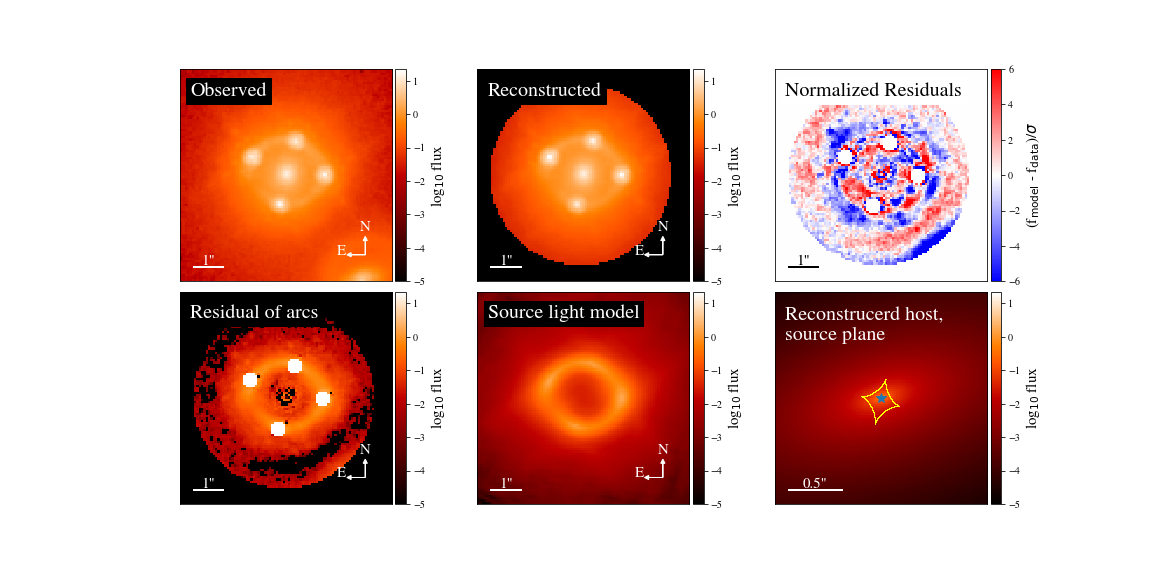
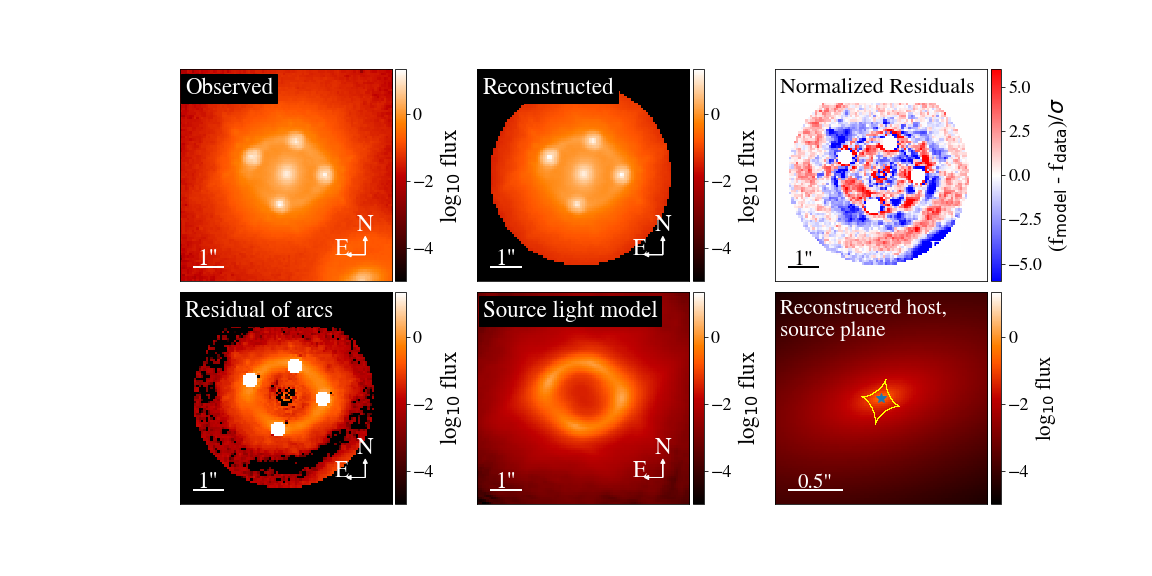
Update to make bigger font in the paper

diff --git a/manuscript/manuscript.tex b/manuscript/manuscript.tex
@@ -122,7 +122,7 @@ $^{1}$Department of Physics and Astronomy, University of California, Los Angeles
 $^{2}$Kavli Institute for Particle Astrophysics and Cosmology and Department of Physics, Stanford University, Stanford, CA 94305, USA\\
 $^{3}$European Southern Observatory, Karl-Schwarzschild-Strasse 2, 85748 Garching, Germany\\
 $^{4}$STAR Institute, Quartier Agora - All\'ee du six Ao\^ut, 19c B-4000 Li\`ege, Belgium\\
-$^{5}$Department of Physics {\bf and Astronomy}, University of California, Davis, CA 95616, USA\\
+$^{5}$Department of Physics and Astronomy, University of California, Davis, CA 95616, USA\\
 $^{6}$Institute of Astronomy, University of Cambridge, Madingley Road, Cambridge CB3 0HA, UK\\
 $^{7}$Kavli IPMU (WPI), UTIAS, The University of Tokyo, Kashiwa, Chiba 277-8583, Japan\\
 $^{8}$Max-Planck-Institut f{\"u}r Astrophysik, Karl-Schwarzschild-Str.~1, 85748 Garching, Germany\\
@@ -360,9 +360,9 @@ In addition to WFC3/F160W, HE0435 has been observed through bands ACS/F814W and 
 
 \begin{figure*}
 \centering
-\subfloat[HE0435 F555W]{\includegraphics[ width=0.8\textwidth]{fig/HE0435_f555w_inference.pdf}}\\
-\subfloat[HE0435 F814W]{\includegraphics[ width=0.8\textwidth]{fig/HE0435_f814w_inference.pdf}}\\
-\subfloat[Host galaxy stellar template inference]{\includegraphics[ width=0.5\textwidth]{fig/HE0435_host_color.pdf}}\\
+\subfloat[HE0435 F555W]{\includegraphics[trim = 15mm 0mm 15mm 5mm, clip, width=0.9\textwidth]{fig/HE0435_f555w_inference.pdf}}\\
+\subfloat[HE0435 F814W]{\includegraphics[trim = 15mm 5mm 15mm 0mm, clip, width=0.9\textwidth]{fig/HE0435_f814w_inference.pdf}}\\
+\subfloat[Host galaxy stellar template inference]{\includegraphics[trim = 10mm 0mm 20mm 15mm, clip, width=0.6\textwidth]{fig/HE0435_host_color.pdf}}\\
 \caption{\label{fig:app_HE0435} 
 Illustrations of the inference of HE0435 using the multi-band data. Top two panels: best-fit model of the lensed arcs shown as Figure~\ref{fig:image_inference}. Bottom panel: SED inference. The red points with error bars represent the inferred image plane host flux in the three bands.}
 \end{figure*} 
@@ -374,11 +374,11 @@ Illustrations of the inference of HE0435 using the multi-band data. Top two pane
 In addition to WFC3/F160W, WFI2033 has been observed by \hst\ in  four bands, i.e., WFC3/F125W (GO-12874; PI: D. Floyd), WFC3/F140W (GO-13732; PI: A. Nierenberg), ACS/F555W+F814W  (GO-9744; PI: C. S. Kochanek). Similar to HE0435, the lens modelling and the host photometry of WFI2033 have been inferred through these four bands. The results are presented in Figure~\ref{fig:app_WFI2033}-(a)$-$(d). Unfortunately, the  F125W data are too shallow to robustly detect the host.  Thus, we do not use the F125W band for the SED fitting. Using four-band photometry, we find a stellar population of 0.625 Gyr age provides a good match to the colors, as shown in Figure~\ref{fig:app_WFI2033}-(e).
 \begin{figure*}
 \centering
-\subfloat[WFI2033 F125W]{\includegraphics[ width=0.8\textwidth]{fig/WFI2033_f125w_inference.pdf}}\\
-\subfloat[WFI2033 F140W]{\includegraphics[ width=0.8\textwidth]{fig/WFI2033_f140w_inference.pdf}}\\
-\subfloat[WFI2033 F555W]{\includegraphics[ width=0.8\textwidth]{fig/WFI2033_f555w_inference.pdf}}\\
-\subfloat[WFI2033 F814W]{\includegraphics[ width=0.8\textwidth]{fig/WFI2033_f814w_inference.pdf}}\\
-\subfloat[Host galaxy stellar template inference]{\includegraphics[ width=0.5\textwidth]{fig/WFI2033_host_color.pdf}}
+\subfloat[WFI2033 F125W]{\includegraphics[trim = 75mm 12mm 45mm 12mm, clip, width=0.9\textwidth]{fig/WFI2033_f125w_inference.pdf}}\\
+\subfloat[WFI2033 F140W]{\includegraphics[trim = 75mm 12mm 45mm 12mm, clip, width=0.9\textwidth]{fig/WFI2033_f140w_inference.pdf}}\\
+\subfloat[WFI2033 F555W]{\includegraphics[trim = 75mm 12mm 45mm 12mm, clip, width=0.9\textwidth]{fig/WFI2033_f555w_inference.pdf}}\\
+\subfloat[WFI2033 F814W]{\includegraphics[trim = 75mm 12mm 45mm 12mm, clip, width=0.9\textwidth]{fig/WFI2033_f814w_inference.pdf}}\\
+\subfloat[Host galaxy stellar template inference]{\includegraphics[trim = 10mm 0mm 20mm 15mm, clip, width=0.6\textwidth]{fig/WFI2033_host_color.pdf}}
 \caption{\label{fig:app_WFI2033} 
 Same as Figure~\ref{fig:app_WFI2033} but for WFI2033. The F125W dare are too shallow to detect the host and are thus omitted in the fit.}
 \end{figure*} 
@@ -401,9 +401,7 @@ with  $\alpha = 0.27$, $\beta = 0.98$ based on the local sample of 55 objects me
 \label{eq:offset}
 \Delta \log \mathcal M_{\rm BH}= \gamma \log (1 + z),
 \end{eqnarray} 
-where $\Delta \log \mathcal M_{\rm BH}$ is the offset of \mbh\ with respect to the local baseline at fixed \mstar. To make a direct comparison, we reproduce the plot shown in Figure~8 of D20. Then, we add our new lensed AGN measurements and show the result in Figure~\ref{fig:scaling_relation}-(right). We find that the offset from the local relationship is similar for the two samples. Based on Equation~\eqref{eq:offset}, we fit the evolution of the eight lensed systems and obtain $\gamma=1.05\pm0.44$, which agrees with the results of D20 ($\gamma=1.03\pm0.25$ using 32 AGN) within $1-\sigma$ level. The consistency between the two measurements provides an important verification of the accuracy of the results and strengthens the conclusions drawn by D20 that the {\it observed} value of \mbh\ at a fixed \mstar\ tends to be larger at higher redshift than the ones in the local universe. {\bf %It is possible that the uncertainty of the \mstar\ could be higher than our estimation (i.e., 0.2~dex), given that the star formation histories could vary widely at high redshift ($z\sim$2). However, even when our stellar mass uncertainty is boosted, the evolution inferred using the eight lensed systems is still robust --- $\gamma=1.05\pm0.48$ assuming  $\Delta$\mstar = 0.3~dex, and $\gamma=1.03\pm0.53$ assuming $\Delta$\mstar = 0.4~dex.
-It is possible that the uncertainty of the \mstar\ could be higher than our assumed 0.2 dex, given that the star formation histories could vary widely at high redshift ($z\sim$2). However, increasing the uncertainty on the stellar mass does not change significantly our conclusions, since the error budget is dominated by the uncertainty in black hole mass. For example, increasing the stellar mass uncertainty to $0.3$ ($0.4$)~dex, we find $\gamma = 1.05\pm0.48$ $(1.03\pm0.53)$.
-}
+where $\Delta \log \mathcal M_{\rm BH}$ is the offset of \mbh\ with respect to the local baseline at fixed \mstar. To make a direct comparison, we reproduce the plot shown in Figure~8 of D20. Then, we add our new lensed AGN measurements and show the result in Figure~\ref{fig:scaling_relation}-(right). We find that the offset from the local relationship is similar for the two samples. Based on Equation~\eqref{eq:offset}, we fit the evolution of the eight lensed systems and obtain $\gamma=1.05\pm0.44$, which agrees with the results of D20 ($\gamma=1.03\pm0.25$ using 32 AGN) within $1-\sigma$ level. The consistency between the two measurements provides an important verification of the accuracy of the results and strengthens the conclusions drawn by D20 that the {\it observed} value of \mbh\ at a fixed \mstar\ tends to be larger at higher redshift than the ones in the local universe. It is possible that the uncertainty of the \mstar\ could be higher than our assumed 0.2 dex, given that the star formation histories could vary widely at high redshift ($z\sim$2). However, increasing the uncertainty on the stellar mass does not change significantly our conclusions, since the error budget is dominated by the uncertainty in black hole mass. For example, increasing the stellar mass uncertainty to $0.3$ ($0.4$)~dex, we find $\gamma = 1.05\pm0.48$ $(1.03\pm0.53)$.
 
 
 Note that this apparent evolution is obtained directly using the observed sample, before considering selection effects~\citep{Tre++07,Schulze2011,Bennert++2011, Schulze2014,Park15}. For instance, adopting the framework introduced in~\citet{Schulze2015}, D20 estimated that accounting for selection biases would yield a more modest evolution $\gamma=0.50\pm0.25$. The lensed AGN systems considered in this work were selected for time-delay cosmography, based on the availability of a time delay and the known detectability of the host galaxy. This is a complex selection function, different than the one used by D20. Although it is encouraging that the two samples present the same apparent evolution, inferring the true underlying evolution requires modelling the selection function, as studied by D20. A full modelling of the complex selection function is not warranted given the small size of the lensed quasars sample. Thus, at this stage, the lensed quasars should be considered as a check on possible systematic measurement error in the D20 analysis rather than a stand-alone measurement.
@@ -440,7 +438,7 @@ The authors thank the anonymous referee for helpful suggestions and comments whi
 We are grateful to Frederic Courbin, Leon Koopmans for useful comments
 and suggestions that improved this manuscript. We thank John Silverman and Vardha Bennert for many conversations on the topic of galaxy and black hole co-evolution.
 
-This work is based in part on observations made with the NASA/ESA Hubble Space Telescope, obtained at the Space Telescope Science Institute, which is operated by the Association of Universities for Research in Astronomy, Inc., under NASA contract NAS 5-26555. X.D., S.B., and T.T. acknowledge support by the Packard Foundation through a Packard Research fellowship to T.T. {\bf This project is received support by the NSF through grant 1907208.} This work is supported by JSPS KAKENHI Grant Number JP18H01251 and the World Premier International Research Center Initiative (WPI), MEXT, Japan. This project has received funding from the European Research Council (ERC) under the European Union's Horizon 2020 research and innovation programme (grant agreement No 787886).
+This work is based in part on observations made with the NASA/ESA Hubble Space Telescope, obtained at the Space Telescope Science Institute, which is operated by the Association of Universities for Research in Astronomy, Inc., under NASA contract NAS 5-26555. X.D., S.B., and T.T. acknowledge support by the Packard Foundation through a Packard Research fellowship to T.T. This project is received support by the NSF through grant 1907208. This work is supported by JSPS KAKENHI Grant Number JP18H01251 and the World Premier International Research Center Initiative (WPI), MEXT, Japan. This project has received funding from the European Research Council (ERC) under the European Union's Horizon 2020 research and innovation programme (grant agreement No 787886).
 C.D.F. acknowledge support for this work from the National Science Foundation under Grant Numbers AST-1312329 and AST-1907396.
 SHS thanks the Max Planck Society for support through the Max Planck Research Group.
 
@@ -525,14 +523,14 @@ HE0047 is the most challenging system in our sample with the lowest SNR of the l
 \begin{figure*}
 \centering
 \begin{tabular}{c c}
-\subfloat[HE0435]{\includegraphics[trim = 40mm 25mm 40mm 25mm, clip, width=0.5\textwidth]{fig/HE0435_inference.png}}&
-\subfloat[RXJ1131]{\includegraphics[trim = 40mm 25mm 40mm 25mm, clip, width=0.5\textwidth]{fig/RXJ1131_inference.png}}\\
-\subfloat[WFI2033]{\includegraphics[trim = 40mm 25mm 40mm 25mm, clip, width=0.5\textwidth]{fig/WFI2033_inference.png}}&
-\subfloat[SDSS1206]{\includegraphics[trim = 40mm 25mm 40mm 25mm, clip, width=0.5\textwidth]{fig/SDSS1206_inference.png}}\\
-\subfloat[HE1104]{\includegraphics[trim = 40mm 25mm 40mm 25mm, clip, width=0.5\textwidth]{fig/HE1104_inference.png}}&
-\subfloat[SDSS0246]{\includegraphics[trim = 40mm 25mm 40mm 25mm, clip, width=0.5\textwidth]{fig/SDSS0246_inference.png}}\\
-\subfloat[HS2209]{\includegraphics[trim = 40mm 25mm 40mm 25mm, clip, width=0.5\textwidth]{fig/HS2209_inference.png}}&
-\subfloat[HE0047]{\includegraphics[trim = 40mm 25mm 40mm 25mm, clip, width=0.5\textwidth]{fig/HE0047_inference.png}}\\
+\subfloat[HE0435]{\includegraphics[trim = 60mm 25mm 20mm 25mm, clip, width=0.5\textwidth]{fig/HE0435_inference.png}}&
+\subfloat[RXJ1131]{\includegraphics[trim = 60mm 25mm 20mm 25mm, clip, width=0.5\textwidth]{fig/RXJ1131_inference.png}}\\
+\subfloat[WFI2033]{\includegraphics[trim = 60mm 25mm 20mm 25mm, clip, width=0.5\textwidth]{fig/WFI2033_inference.png}}&
+\subfloat[SDSS1206]{\includegraphics[trim = 60mm 25mm 20mm 25mm, clip, width=0.5\textwidth]{fig/SDSS1206_inference.png}}\\
+\subfloat[HE1104]{\includegraphics[trim = 60mm 25mm 20mm 25mm, clip, width=0.5\textwidth]{fig/HE1104_inference.png}}&
+\subfloat[SDSS0246]{\includegraphics[trim = 60mm 25mm 20mm 25mm, clip, width=0.5\textwidth]{fig/SDSS0246_inference.png}}\\
+\subfloat[HS2209]{\includegraphics[trim = 60mm 25mm 20mm 25mm, clip, width=0.5\textwidth]{fig/HS2209_inference.png}}&
+\subfloat[HE0047]{\includegraphics[trim = 60mm 25mm 20mm 25mm, clip, width=0.5\textwidth]{fig/HE0047_inference.png}}\\
 \end{tabular}
 \caption{\label{fig:image_inference} 
 Illustrations of the inference using the best-fit lens model for each system using the AGN center noise level boosted approach. For each figure, the panels from left to right are the follows: Top row: (left to right): (1) observed data, (2) best-fit model (3) residuals divided by the uncertainty level. Some of the residual looks clumpy; however, they do not affect the host property measurements, for more details see Section~\ref{sec:diss} ; Bottom row: (left to right): (4) data minus the model PSF and deflector  (i.e., pure lensed arc image), (5) the model of the lensed arc, (6) reconstructed host galaxy in the source plane with caustic line drawn as yellow line. Across all the systems, the lensed arc feature can be clearly seen in the fourth panel, indicating strong evidence of a detection. In panel (3) and (4), we use white regions to indicate the area where the noise level is boosted. 

diff --git a/material/model_band_plot(Xuheng_mod).py b/material/model_band_plot(Xuheng_mod).py
@@ -100,6 +100,7 @@ class ModelBandPlot(object):
         cax = divider.append_axes("right", size="5%", pad=0.05)
         cb = plt.colorbar(im, cax=cax, orientation='vertical')
         cb.set_label(colorbar_label, fontsize=font_size)
+        cb.ax.tick_params(labelsize=18)
         return ax
 
     def model_plot(self, ax, v_min=None, v_max=None, image_names=False,
@@ -133,7 +134,7 @@ class ModelBandPlot(object):
         cax = divider.append_axes("right", size="5%", pad=0.05)
         cb = plt.colorbar(im, cax=cax)
         cb.set_label(colorbar_label, fontsize=font_size)
-
+        cb.ax.tick_params(labelsize=18)
         #plot_line_set(ax, self._coords, self._ra_caustic_list, self._dec_caustic_list, color='b')
         #plot_line_set(ax, self._coords, self._ra_crit_list, self._dec_crit_list, color='r')
         if image_names is True:
@@ -206,6 +207,7 @@ class ModelBandPlot(object):
         cb = plt.colorbar(im, cax=cax)
         cb.set_label(colorbar_label,
                      fontsize=font_size)
+        cb.ax.tick_params(labelsize=18)
         return ax
 
     def absolute_residual_plot(self, ax, v_min=-1, v_max=1, font_size=15,
@@ -315,7 +317,7 @@ class ModelBandPlot(object):
         cax = divider.append_axes("right", size="5%", pad=0.05)
         cb = plt.colorbar(im, cax=cax)
         cb.set_label(colorbar_label, fontsize=font_size)
-
+        cb.ax.tick_params(labelsize=18)
         if with_caustics is True:
             ra_caustic_list, dec_caustic_list = self._caustics()
             plot_util.plot_line_set(ax, coords_source, ra_caustic_list,
@@ -327,7 +329,7 @@ class ModelBandPlot(object):
         if 'no_arrow' not in kwargs or not kwargs['no_arrow']:
             plot_util.coordinate_arrows(ax, self._frame_size, self._coords, color='w',
                               arrow_size=self._arrow_size, font_size=font_size)
-            plot_util.text_description_2(ax, d_s, text=text, color="w", backgroundcolor='k',
+            plot_util.text_description_2(ax, d_s, text=text, color="w",
                          flipped=False, font_size=font_size)
         if point_source_position is True:
             ra_source, dec_source = self.bandmodel.PointSource.source_position(self._kwargs_ps_partial, self._kwargs_lens_partial)
@@ -479,13 +481,14 @@ class ModelBandPlot(object):
         ax.get_yaxis().set_visible(False)
         ax.autoscale(False)
         plot_util.scale_bar(ax, self._frame_size, dist=1, text='1"', font_size=font_size)
-        plot_util.text_description(ax, self._frame_size, text=text, color="w", backgroundcolor='k')
+        plot_util.text_description(ax, self._frame_size, text=text, color="w", backgroundcolor='k', font_size=font_size)
         plot_util.coordinate_arrows(ax, self._frame_size, self._coords,
                           arrow_size=self._arrow_size, font_size=font_size)
         divider = make_axes_locatable(ax)
         cax = divider.append_axes("right", size="5%", pad=0.05)
         cb = plt.colorbar(im, cax=cax)
         cb.set_label(r'log$_{10}$ flux', fontsize=font_size)
+        cb.ax.tick_params(labelsize=18)
         return ax
 
     def subtract_from_data_plot(self, ax, text='Subtracted', v_min=None,
@@ -519,6 +522,7 @@ class ModelBandPlot(object):
         cax = divider.append_axes("right", size="5%", pad=0.05)
         cb = plt.colorbar(im, cax=cax)
         cb.set_label(r'log$_{10}$ flux', fontsize=font_size)
+        cb.ax.tick_params(labelsize=18)
         return ax
 
     def plot_main(self, with_caustics=False):

diff --git a/material/plot_append_WFI2033.py b/material/plot_append_WFI2033.py
@@ -27,7 +27,7 @@ IDs = ['2_WFI2033']
 #0 = int(0ut("Which source:\n"))
 ID = IDs[0][2:]
 filters = ['f125w', 'f140w', 'f555w', 'f814w'] 
-file_info = '/{0}_model/fit_PSFi_PSFrecons/result_PSF0_*_gammafix1.9*.pkl'.format(filters[1])
+file_info = '/{0}_model/fit_PSFi_PSFrecons/result_PSF0_*_gammafix1.9*.pkl'.format(filters[0])
 #
 filename = glob.glob('../'+IDs[0]+file_info )
 #filename = glob.glob('../5_SDSS0246/model/2nd_fit_PSFi_PSFrecons/result_PSF0_*_gammafix2.1_subg2.pkl')
@@ -94,17 +94,17 @@ modelPlot = ModelPlot(multi_band_list, kwargs_model, kwargs_result,
                       arrow_size=0.02, cmap_string="gist_heat", likelihood_mask_list=[lens_mask])
 
 f, axes = plt.subplots(1, 4, figsize=(21, 4), sharex=False, sharey=False)
-if filters[0] == 'f125w':
-    no_arrow=True
+if (readfile.split('_model')[0])[-5:] == 'f125w' or (readfile.split('_model')[0])[-5:] == 'f140w':
+    modelPlot.data_plot(ax=axes[0], no_arrow=True, font_size=23)
+    modelPlot.model_plot(ax=axes[1], no_arrow=True, font_size=23)
 else:
-    no_arror = False
-modelPlot.data_plot(ax=axes[0], no_arrow=no_arrow)
-modelPlot.model_plot(ax=axes[1], no_arrow=no_arrow)
-#modelPlot.normalized_residual_plot(ax=axes[0,2], v_min=-6, v_max=6)
+    modelPlot.data_plot(ax=axes[0], font_size=23)
+    modelPlot.model_plot(ax=axes[1], font_size=23)
+    #modelPlot.normalized_residual_plot(ax=axes[0,2], v_min=-6, v_max=6)
 #Multe the arrow in: /Users/Dartoon/Astro/Packages/lenstronomy/lenstronomy/Plots/model_band_plot.py
 modelPlot.subtract_from_data_plot(ax=axes[2], point_source_add=True,lens_light_add=True, source_add=False, 
-                                  text='Residual of lensed arcs')#, no_arrow=no_arrow)
-modelPlot.decomposition_plot(ax=axes[3], text='Modelled source light', source_add=True)#, no_arrow=no_arrow)
+                                  text='Residual of lensed arcs', font_size=22)#, no_arrow=no_arrow)
+modelPlot.decomposition_plot(ax=axes[3], text='Modelled source light', source_add=True, font_size=22)#, no_arrow=no_arrow)
 #f.tight_layout()
 f.subplots_adjust(left=None, bottom=None, right=None, top=None, wspace=0., hspace=0.05)
 #

diff --git a/material/plot_fitting.py b/material/plot_fitting.py
@@ -36,7 +36,7 @@ IDs = ['0_HE0435', '1_RXJ1131', '2_WFI2033', '3_SDSS1206', '4_HE1104', '5_SDSS02
 #for i in range(len(IDs)):
 #    print(i, ':', IDs[i])
 #inp = int(input("Which source:\n"))
-inp = 6
+inp = 7
 ID = IDs[inp][2:]
 if ID == 'SDSS1206':
     folder_0 = '_singel_host_run_summary.pkl'
@@ -119,18 +119,18 @@ modelPlot = ModelPlot(multi_band_list, kwargs_model, kwargs_result,
                       arrow_size=0.02, cmap_string="gist_heat", likelihood_mask_list=[lens_mask])
 
 f, axes = plt.subplots(2, 3, figsize=(16, 8), sharex=False, sharey=False)
-modelPlot.data_plot(ax=axes[0,0])
-modelPlot.model_plot(ax=axes[0,1])
-modelPlot.normalized_residual_plot(ax=axes[0,2], v_min=-6, v_max=6)
+modelPlot.data_plot(ax=axes[0,0], font_size=23)
+modelPlot.model_plot(ax=axes[0,1], font_size=23)
+modelPlot.normalized_residual_plot(ax=axes[0,2], v_min=-6, v_max=6, font_size=22)
 modelPlot.subtract_from_data_plot(ax=axes[1, 0], #v_max=1, 
                                   point_source_add=True,lens_light_add=True, source_add=False, 
-                                  text='Residual of arcs')
-modelPlot.decomposition_plot(ax=axes[1,1], text='Source light model', source_add=True)
+                                  text='Residual of arcs', font_size=23)
+modelPlot.decomposition_plot(ax=axes[1,1], text='Source light model', source_add=True, font_size=23)
 #modelPlot.decomposition_plot(ax=axes[1,2], text='Source light', source_add=True, unconvolved=True)
 #modelPlot.magnification_plot(ax=axes[1, 2])
 delta_list = [0.02, 0.1, 0.02, 0.05, 0.06, 0.02, 0.02, 0.02, 0.02]
 modelPlot.source_plot(ax=axes[1, 2], deltaPix_source=delta_list[inp], numPix=100, scale_size=0.5,
-                      text='Reconstrucerd host, \nsource plane',with_caustics=True)
+                      text='Reconstrucerd host, \nsource plane',with_caustics=True, font_size=21)
 #f.tight_layout()
 f.subplots_adjust(left=None, bottom=None, right=None, top=None, wspace=0., hspace=0.05)
 plt.savefig('{0}_inference.png'.format(ID))

diff --git a/material/plot_append_HE0435.py b/material/plot_append_HE0435.py
@@ -95,13 +95,13 @@ modelPlot = ModelPlot(multi_band_list, kwargs_model, kwargs_result,
                       arrow_size=0.02, cmap_string="gist_heat", likelihood_mask_list=[lens_mask])
 
 f, axes = plt.subplots(1, 4, figsize=(21, 4), sharex=False, sharey=False)
-modelPlot.data_plot(ax=axes[0])
-modelPlot.model_plot(ax=axes[1])
+modelPlot.data_plot(ax=axes[0], font_size=23)
+modelPlot.model_plot(ax=axes[1], font_size=23)
 #modelPlot.normalized_residual_plot(ax=axes[0,2], v_min=-6, v_max=6)
 modelPlot.subtract_from_data_plot(ax=axes[2], point_source_add=True,lens_light_add=True, source_add=False, 
-                                  text='Residual of lensed arcs')
-modelPlot.decomposition_plot(ax=axes[3], text='Modelled source light', source_add=True)
-#f.tight_layout()
+                                  text='Residual of lensed arcs', font_size=22)
+modelPlot.decomposition_plot(ax=axes[3], text='Modelled source light', source_add=True, font_size=22)
+f.tight_layout()
 f.subplots_adjust(left=None, bottom=None, right=None, top=None, wspace=0., hspace=0.05)
 #
 plt.savefig('{0}_{1}_inference.pdf'.format(ID, (readfile.split('_model')[0])[-5:]))
